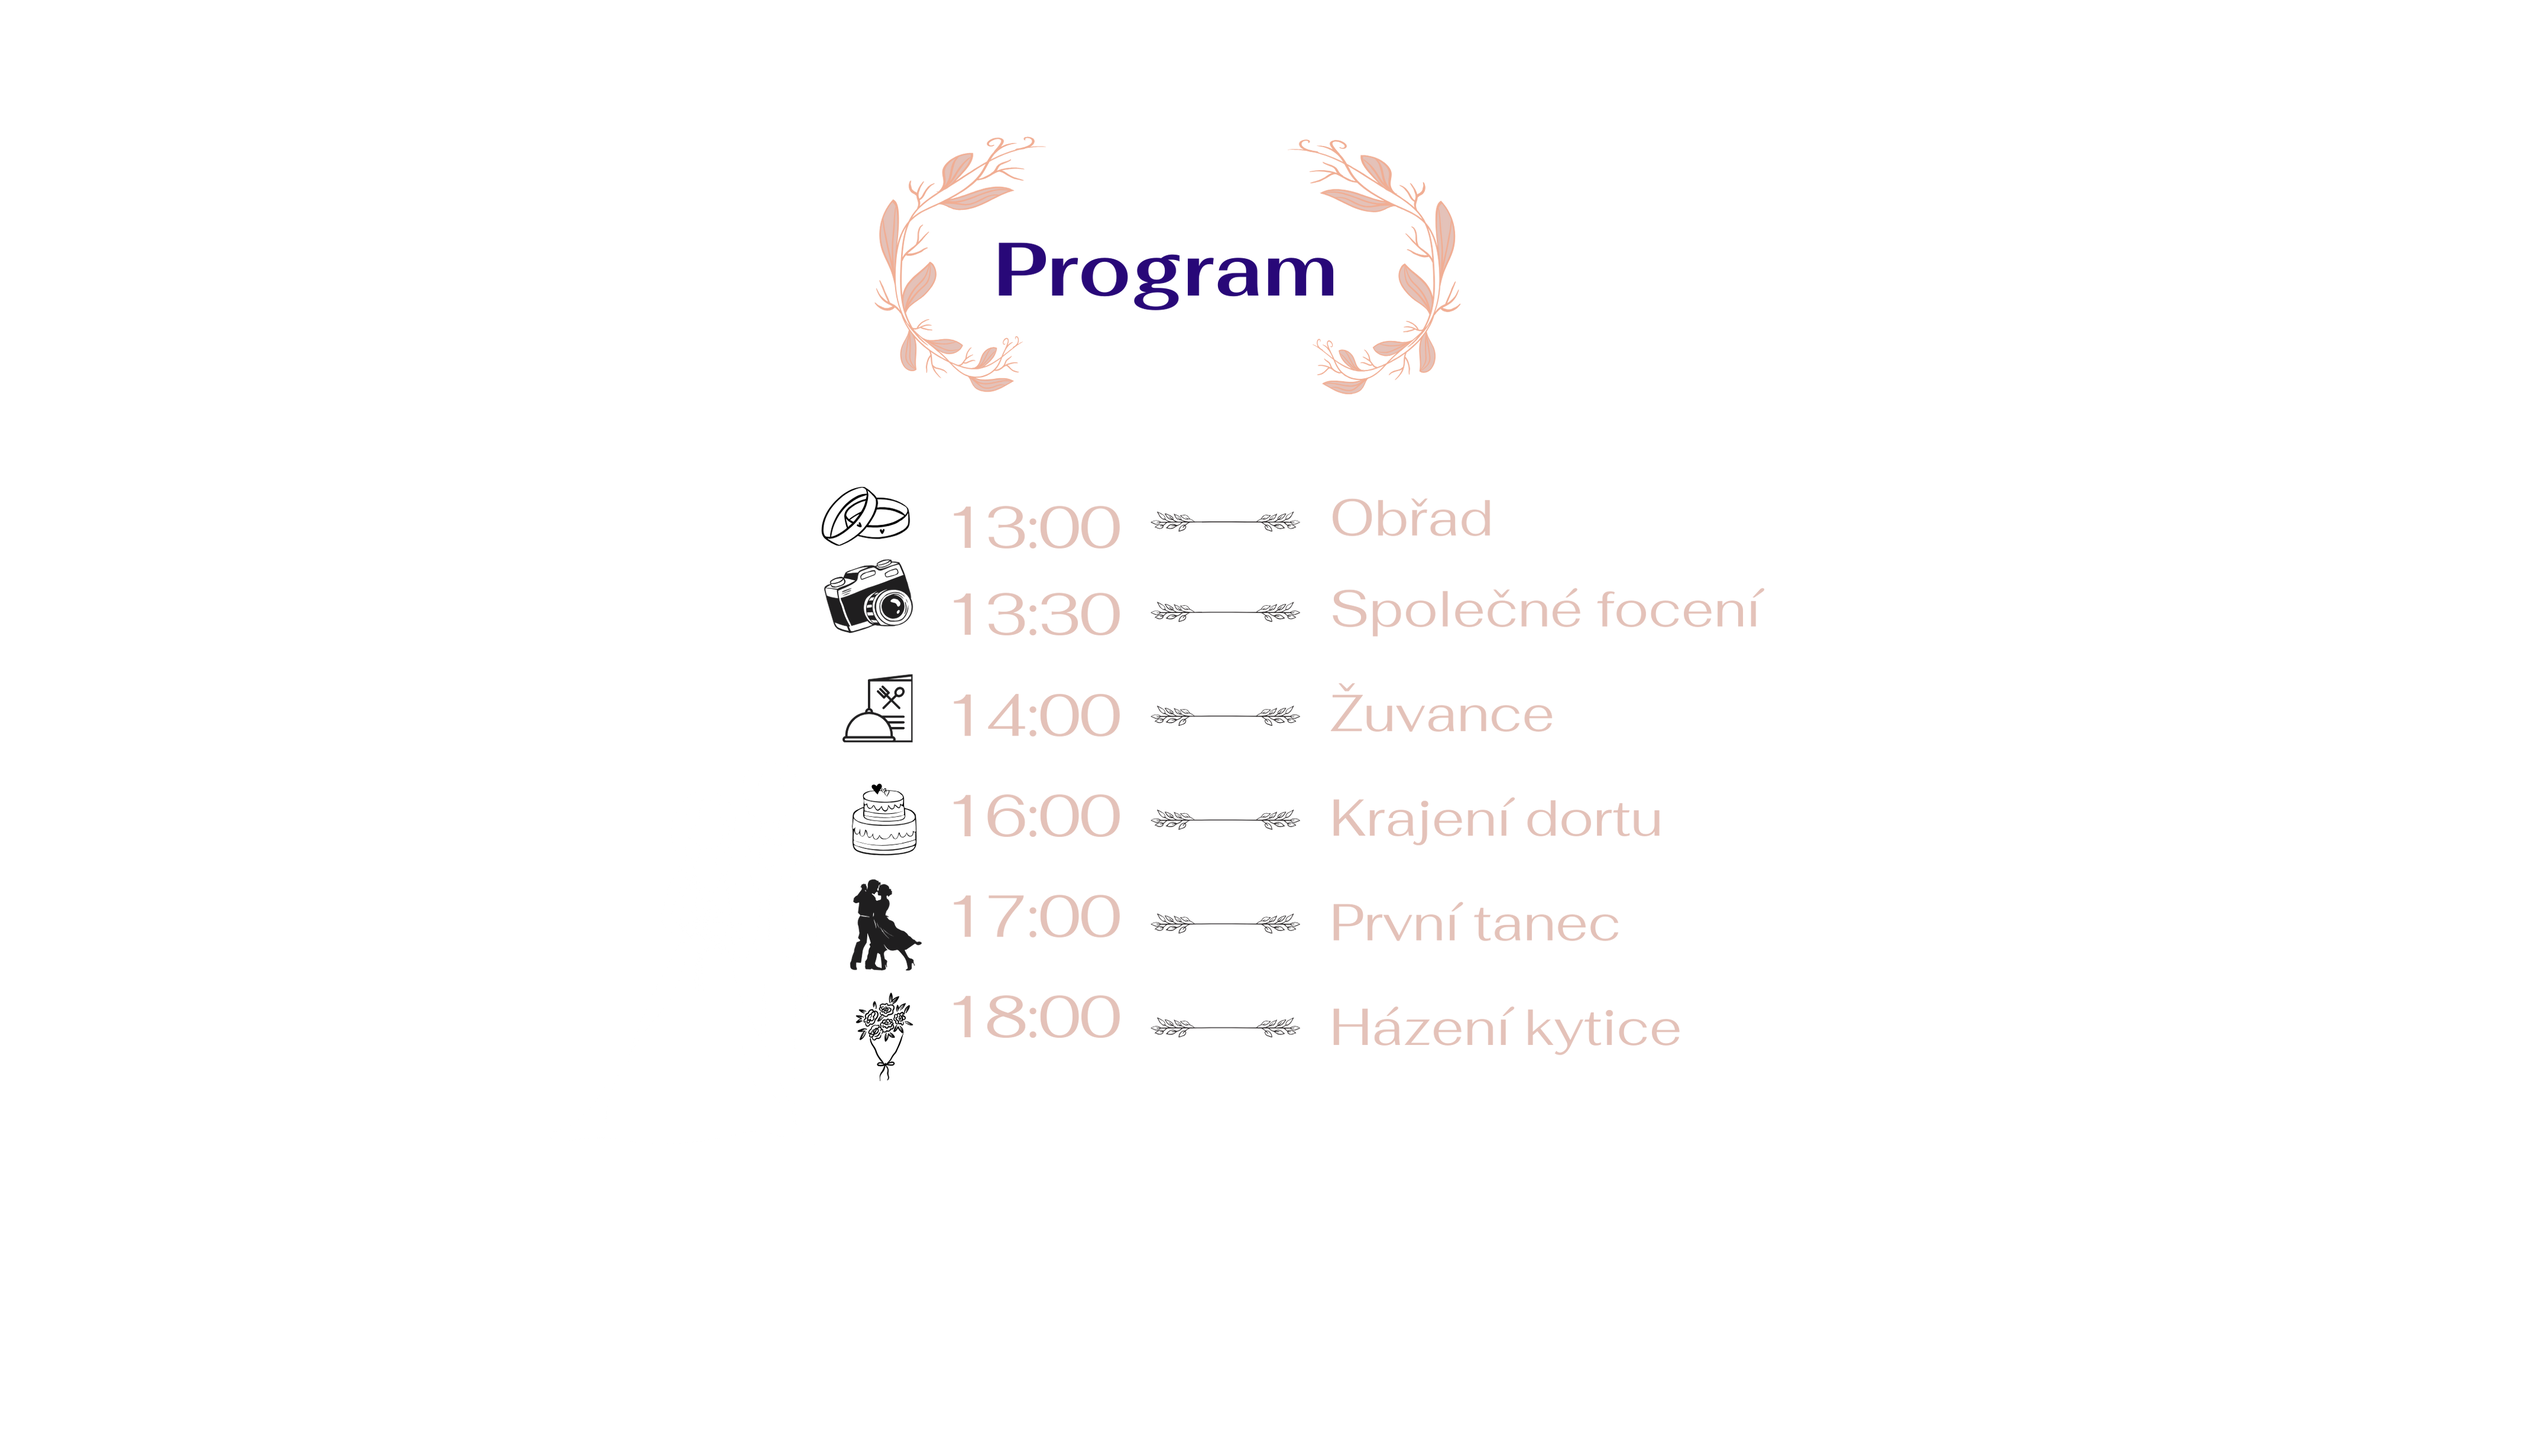
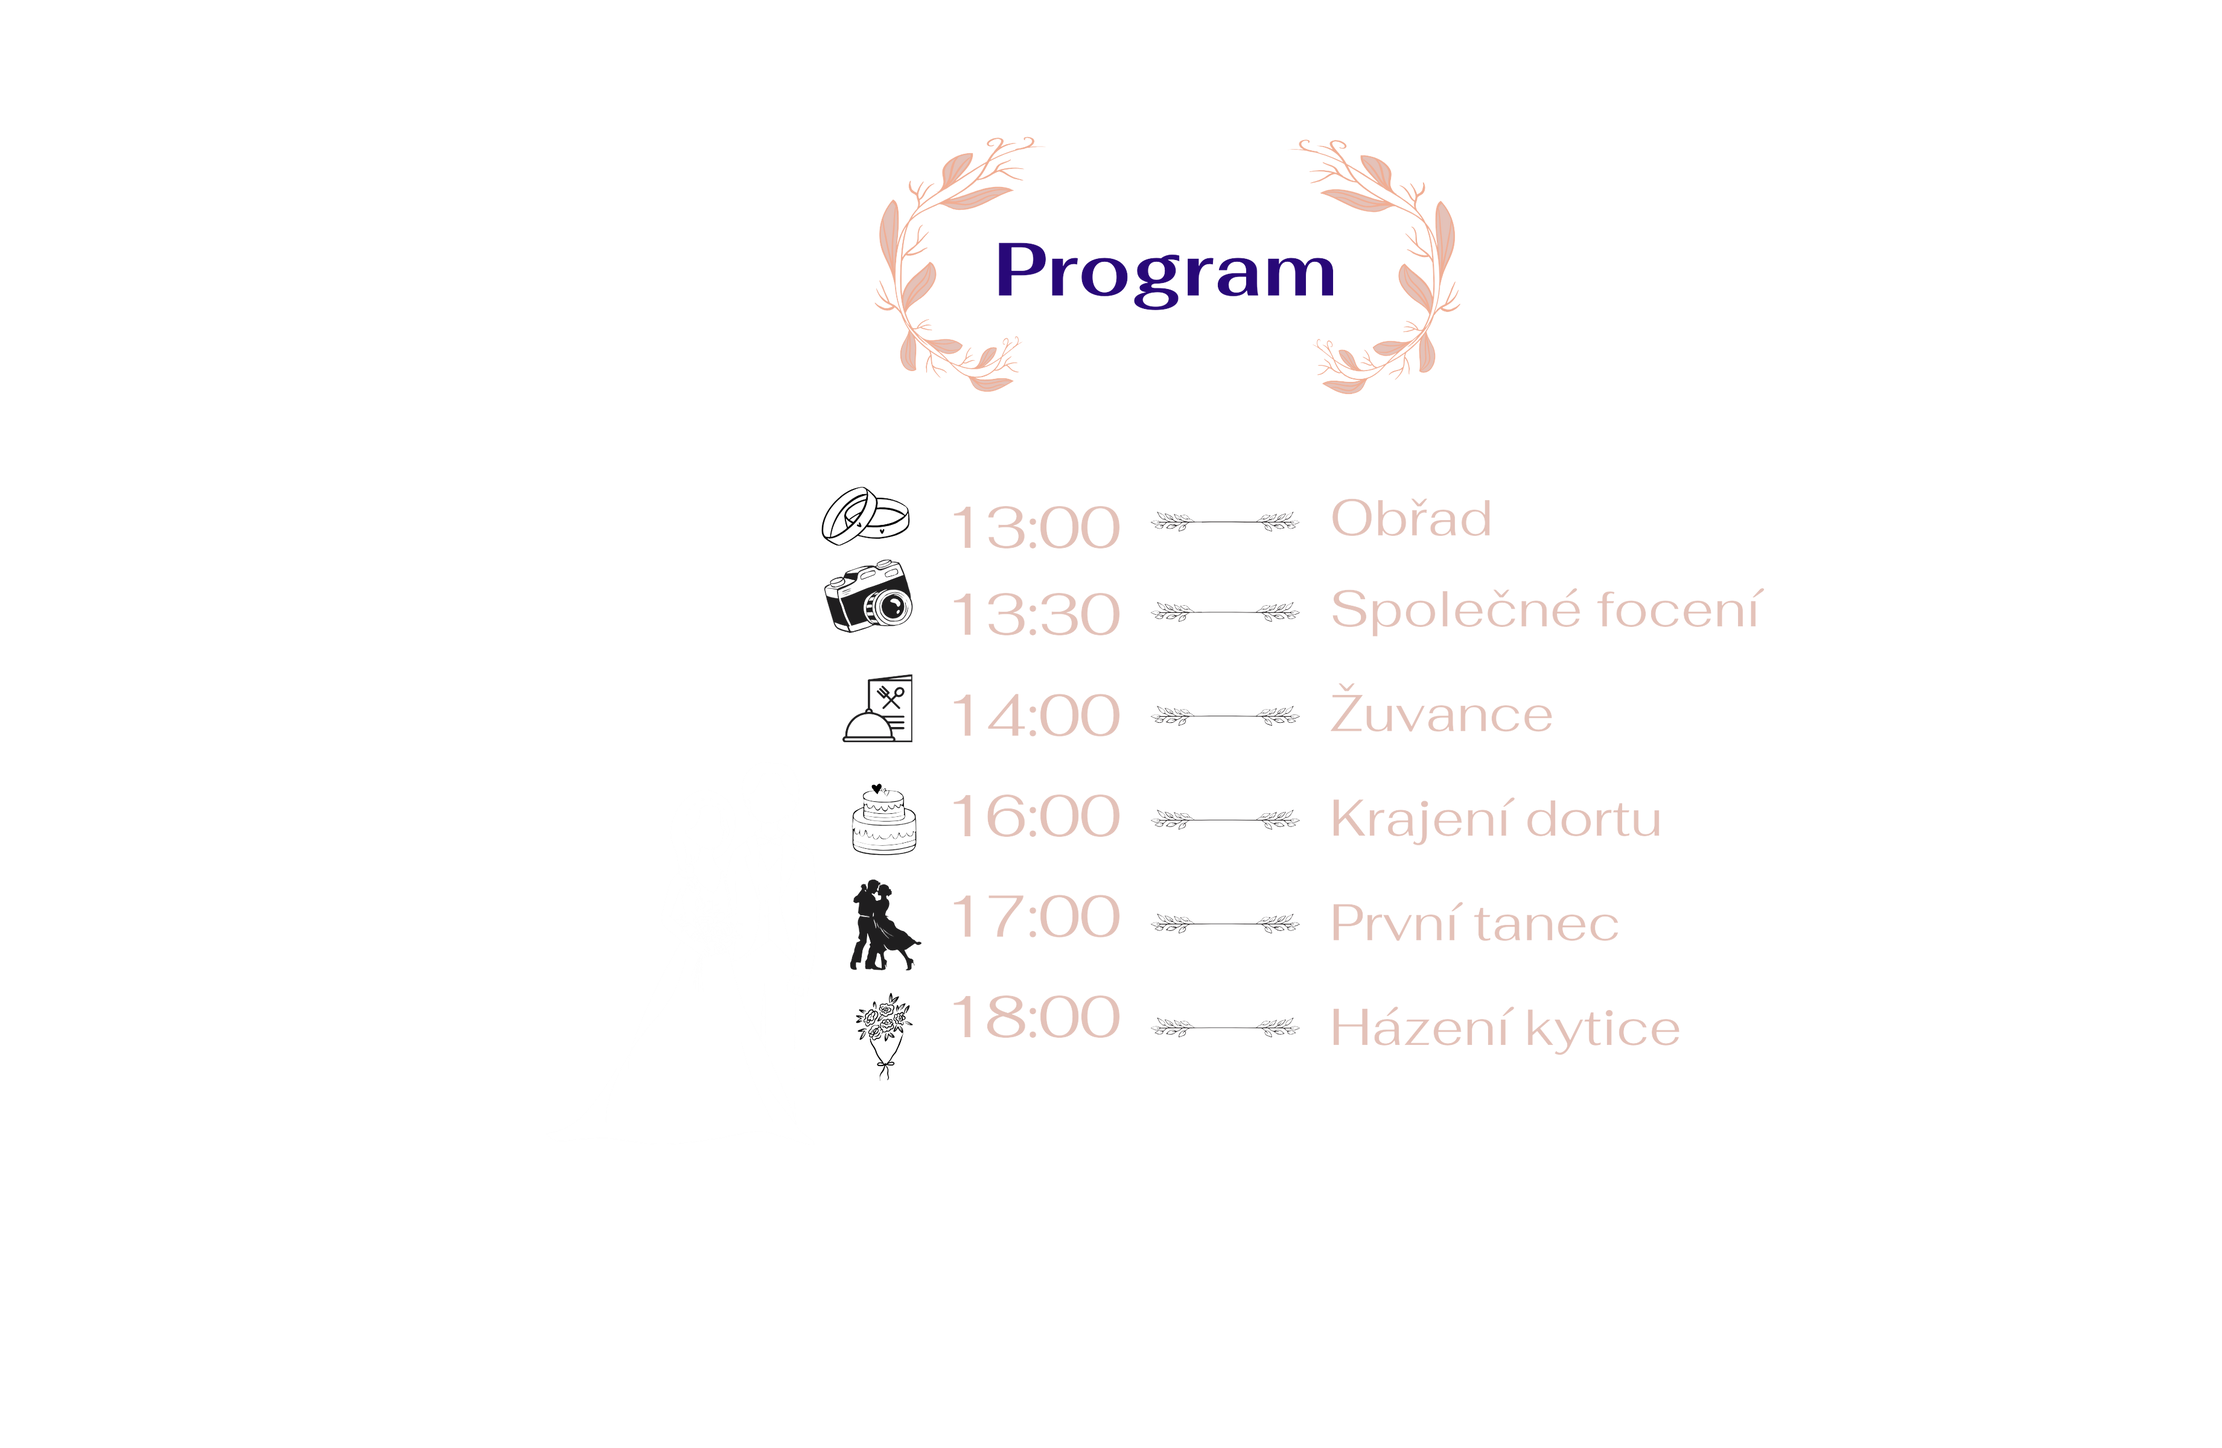
modified responsive design

diff --git a/index.html b/index.html
@@ -11,13 +11,13 @@
     <div>
         <button class="menu-toggle">&#9776;</button>
         <nav class="navbar">
-          <ul>
-              <li><a href="#uvod">Úvod</a></li>
-              <li><a href="#info">Informace</a></li>
-              <li><a href="#program">Program</a></li>
-              <li><a href="#my">My</a></li>
-              <li><a href="#ucast">Potvrzení účasti</a></li>
-          </ul>
+            <ul>
+                <li><a href="#uvod">Úvod</a></li>
+                <li><a href="#info">Informace</a></li>
+                <li><a href="#program">Program</a></li>
+                <li><a href="#my">My</a></li>
+                <li><a href="#ucast">Potvrzení účasti</a></li>
+            </ul>
         </nav>
     </div>
     <div>
@@ -31,8 +31,10 @@
         </section>
 
         <section id="info">
-            <div class="full-width">
-                <img src="pictures/info-top.png" alt="top">
+            <div class="text-part">
+                <h1>Informace<img src="pictures/srdce.png" alt="srdce" class="heart"></h1>
+                <h2>Kdy a kde</h2>
+
             </div>
             <div class="content">
                 <div class="left">
@@ -51,7 +53,7 @@
         <section id="my" class="content">
             <div class="left">
                 <div class="text-part">
-                    <h2>Naše společné zážitky</h2>
+                    <h1>Naše společné zážitky</h1>
                     <img src="pictures/two.png" alt="two" class="small-img">
                 </div>
 
@@ -66,7 +68,7 @@
         </section>
 
         <section id="program" class="full-width">
-            <img src="pictures/program1.png" alt="program-img">
+            <img src="pictures/program2.png" alt="program-img">
         </section>
 
         <section id="ucast" class="content">
@@ -75,16 +77,21 @@
             </div>
             <div class="right">
                 <div class="text-part">
-                    <h1>Užijte si s námi náš velký den. <br> Těšíme se! </h1>
+                    <h2>Užijte si s námi náš velký den. <br> Těšíme se! </h2>
                     <a href="https://forms.gle/K6RHeAkUwGkkhKg18" class="btn" target="_blank">POTVRZENÍ ÚČASTI</a>
                     <img src="pictures/flower.png" alt="flower" class="small-img">
                 </div>
             </div>
         </section>
-
     </div>
-    <div class="full-width">
-        <img src="pictures/footer.png" alt="footer">
+
+    <div id="footer" class="content">
+        <div class="right">
+            <img src="pictures/footer1.png" alt="footer1">
+        </div>
+        <div class="left">
+            <img src="pictures/footer2.png" alt="footer2">
+        </div>
     </div>
 
     <script src="script.js"></script>

diff --git a/style.css b/style.css
@@ -2,11 +2,19 @@ body {
     margin: 0;
     padding: 0;
     font-family: 'Fahkwang';
-    font-size: 20px
+
 }
 
-h2, h1 {
+h1 {
+    font-weight: 700;
+    margin-bottom: 0px;
+    font-size: 40px
+}
+
+h2 {
     font-weight: 400;
+    margin-top: 0;
+    font-size: 28px
 }
 
 .navbar {
@@ -80,6 +88,40 @@ h2, h1 {
     .content {
         flex-direction: column;
         align-items: center;
+        flex-wrap: wrap;
+        max-width: 100%;
+    }
+
+    #program,
+    #dary {
+        padding: 0;
+    }
+
+
+    #program img,
+    #dary img {
+        width: 100%;
+        min-height: 400px;
+        height: auto;
+        object-fit: cover;
+    }
+
+    h1 {
+        font-size: 30px
+    }
+
+    h2 {
+        font-size: 20px
+    }
+
+    .slider {
+        max-width: 100%;
+    }
+
+    .slider img {
+        max-width: 100%;
+        height: auto;
+        object-fit: contain;
     }
 }
 
@@ -89,10 +131,11 @@ h2, h1 {
 
 #info {
     background-color: #4a4aac;
+    color: #f6ede7;
 }
 
 #dary {
-    background-color: #fc5db3;
+    background-color: #f376ba;
 }
 
 #my {
@@ -109,11 +152,16 @@ h2, h1 {
     color: #f6ede7;
 }
 
+#footer {
+    background-color: #1f1e1f;
+    padding: 0px;
+}
+
 .content {
     display: flex;
     align-items: center;
     justify-content: space-between;
-    padding: 40px;
+    padding: 15px;
 }
 
 .content .left{
@@ -140,17 +188,23 @@ h2, h1 {
     display: flex;
     align-items: center;
     justify-content: center;
+    position: relative;
+    width: 100%;
     max-width: 600px;
 }
 
 .slider img {
     width: 100%;
-    max-width: 500px;
+    height: auto;
+    max-width: 100%;
     border-radius: 10px;
-    object-fit: contain;
+    object-fit: cover;
 }
 
-button {
+.slider button {
+    position: absolute;
+    top: 50%;
+    transform: translateY(-50%);
     background-color: rgba(0, 0, 0, 0.5);
     color: white;
     border: none;
@@ -160,17 +214,31 @@ button {
     border-radius: 5px;
 }
 
+.slider .prev {
+    left: 10px;
+}
+
+.slider .next {
+    right: 10px;
+}
+
 .text-part {
     display: flex;
     flex-direction: column;
     align-items: center;
     text-align: center;
-    gap: 15px;
+    gap: 10px;
 }
 
 .small-img {
     width: 300px !important;
     height: auto;
+}
+
+.heart {
+    width: 100px !important;
+    height: auto;
+    position: absolute;
 }
 
 .btn {

diff --git a/script.js b/script.js
@@ -23,6 +23,8 @@ for (let i = 1; i <= 17; i++) {
 
 let currentIndex = 0;
 
+showImage(currentIndex);
+
 function showImage(index) {
     document.getElementById("sliderImage").src = images[index];
 }
